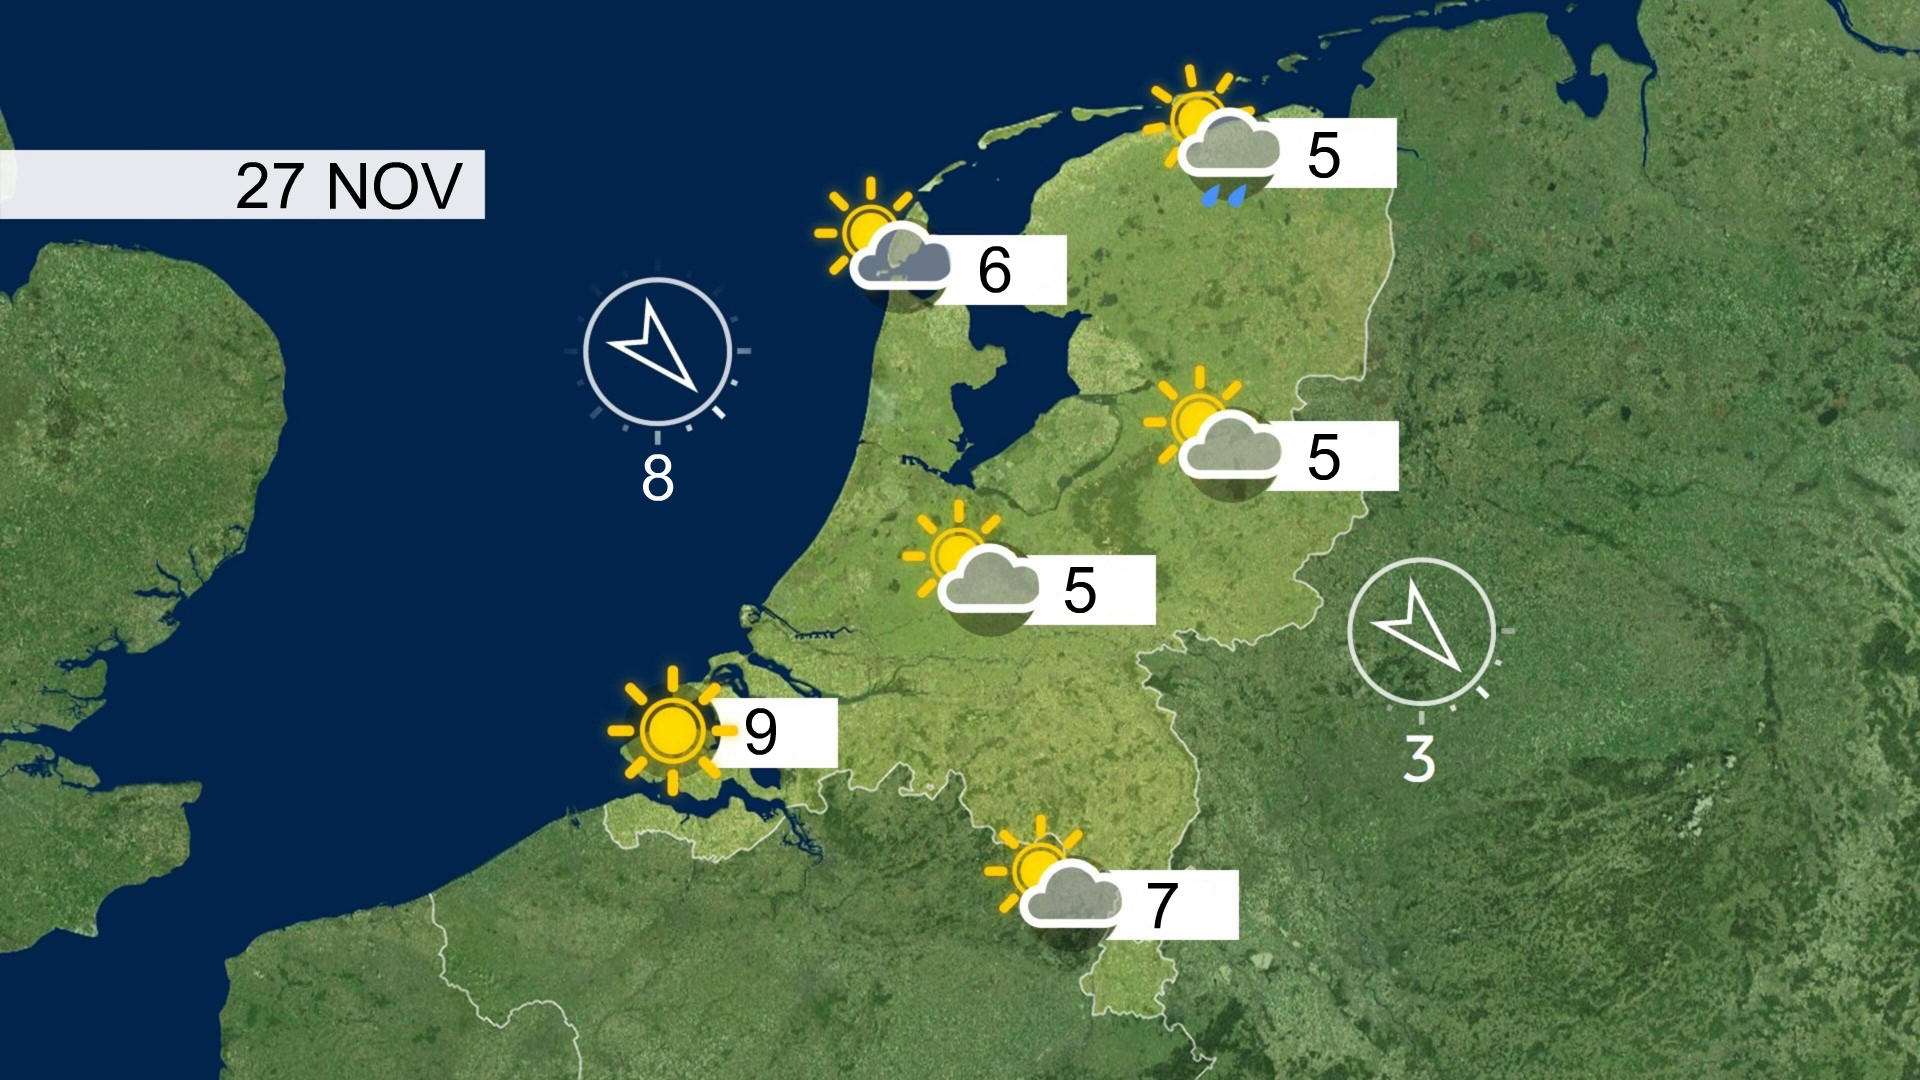
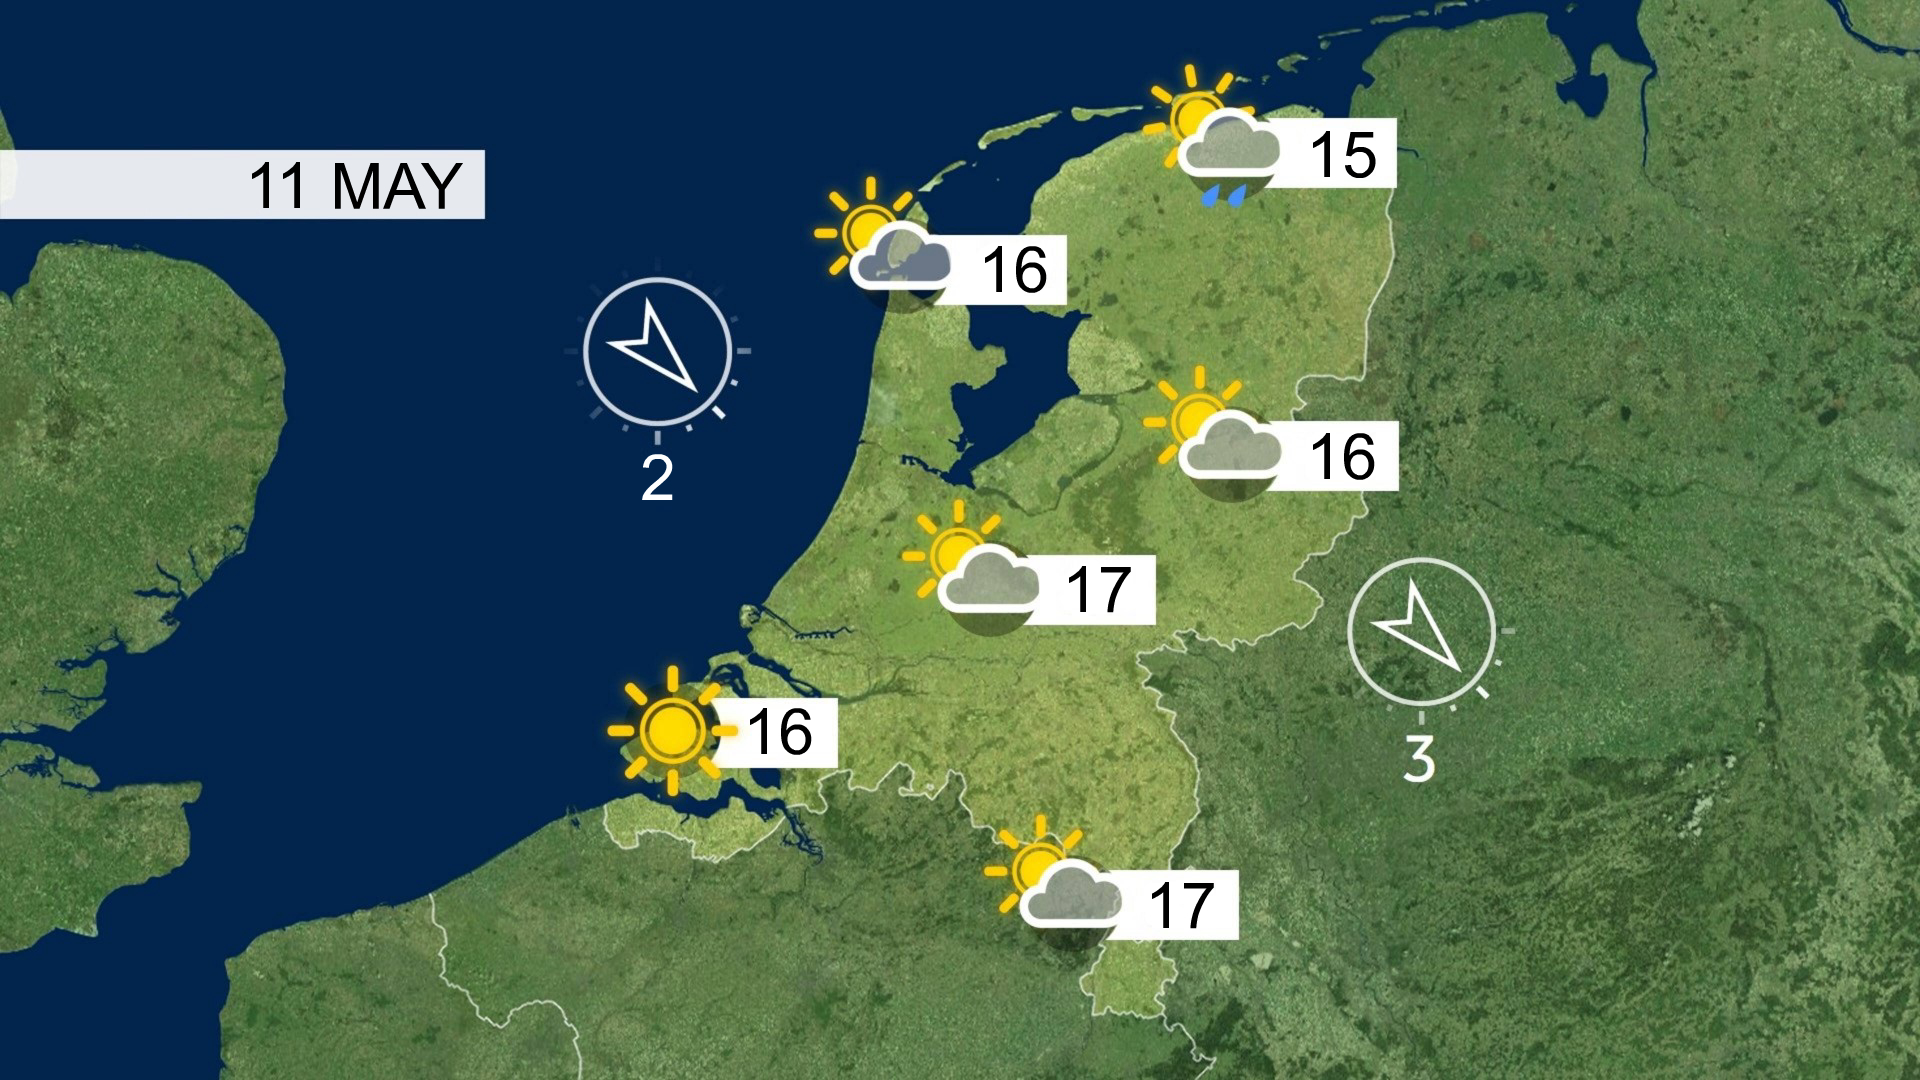
Use wind value at sea

diff --git a/index.js b/index.js
@@ -81,8 +81,18 @@ async function convert() {
         484,
         0
       );
-      data.forEach(({ font, temp, x, y }) => {
-        image.print(fonts[font], x, y, temp);
+
+      const dataToRender = data.map(({ font, temp, wind, x, y }) => {
+        return {
+          font: fonts[font],
+          value: { [Jimp.FONT_SANS_64_WHITE]: wind, [Jimp.FONT_SANS_64_BLACK]: temp }[font],
+          x,
+          y,
+        };
+      });
+
+      dataToRender.forEach(({ font, value, x, y }) => {
+        image.print(font, x, y, value);
       });
       const outputPath = path.join(teamsDir, output);
       await image.writeAsync(outputPath);
